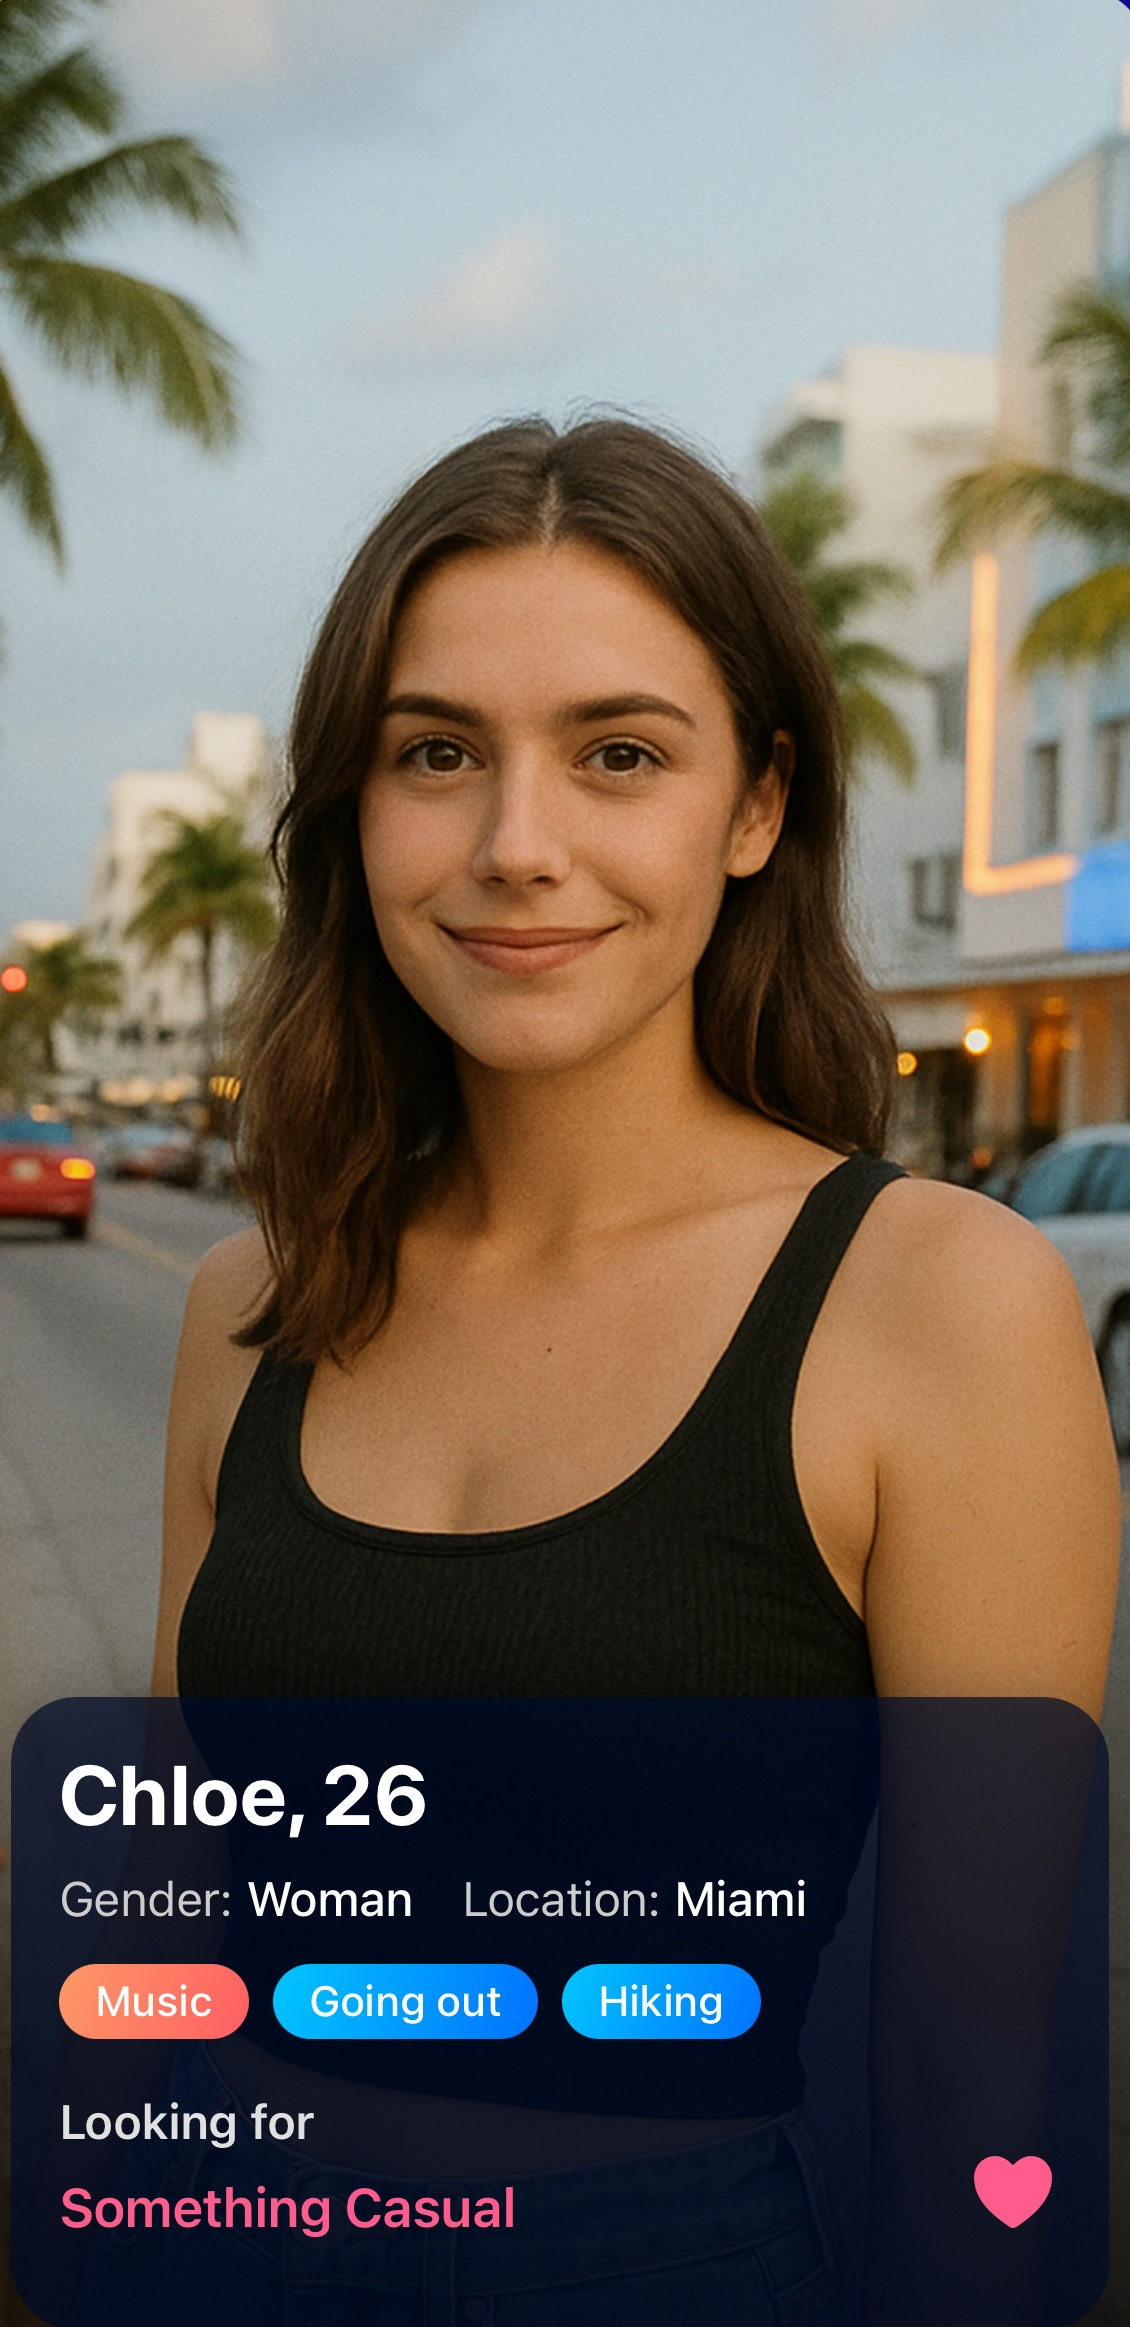
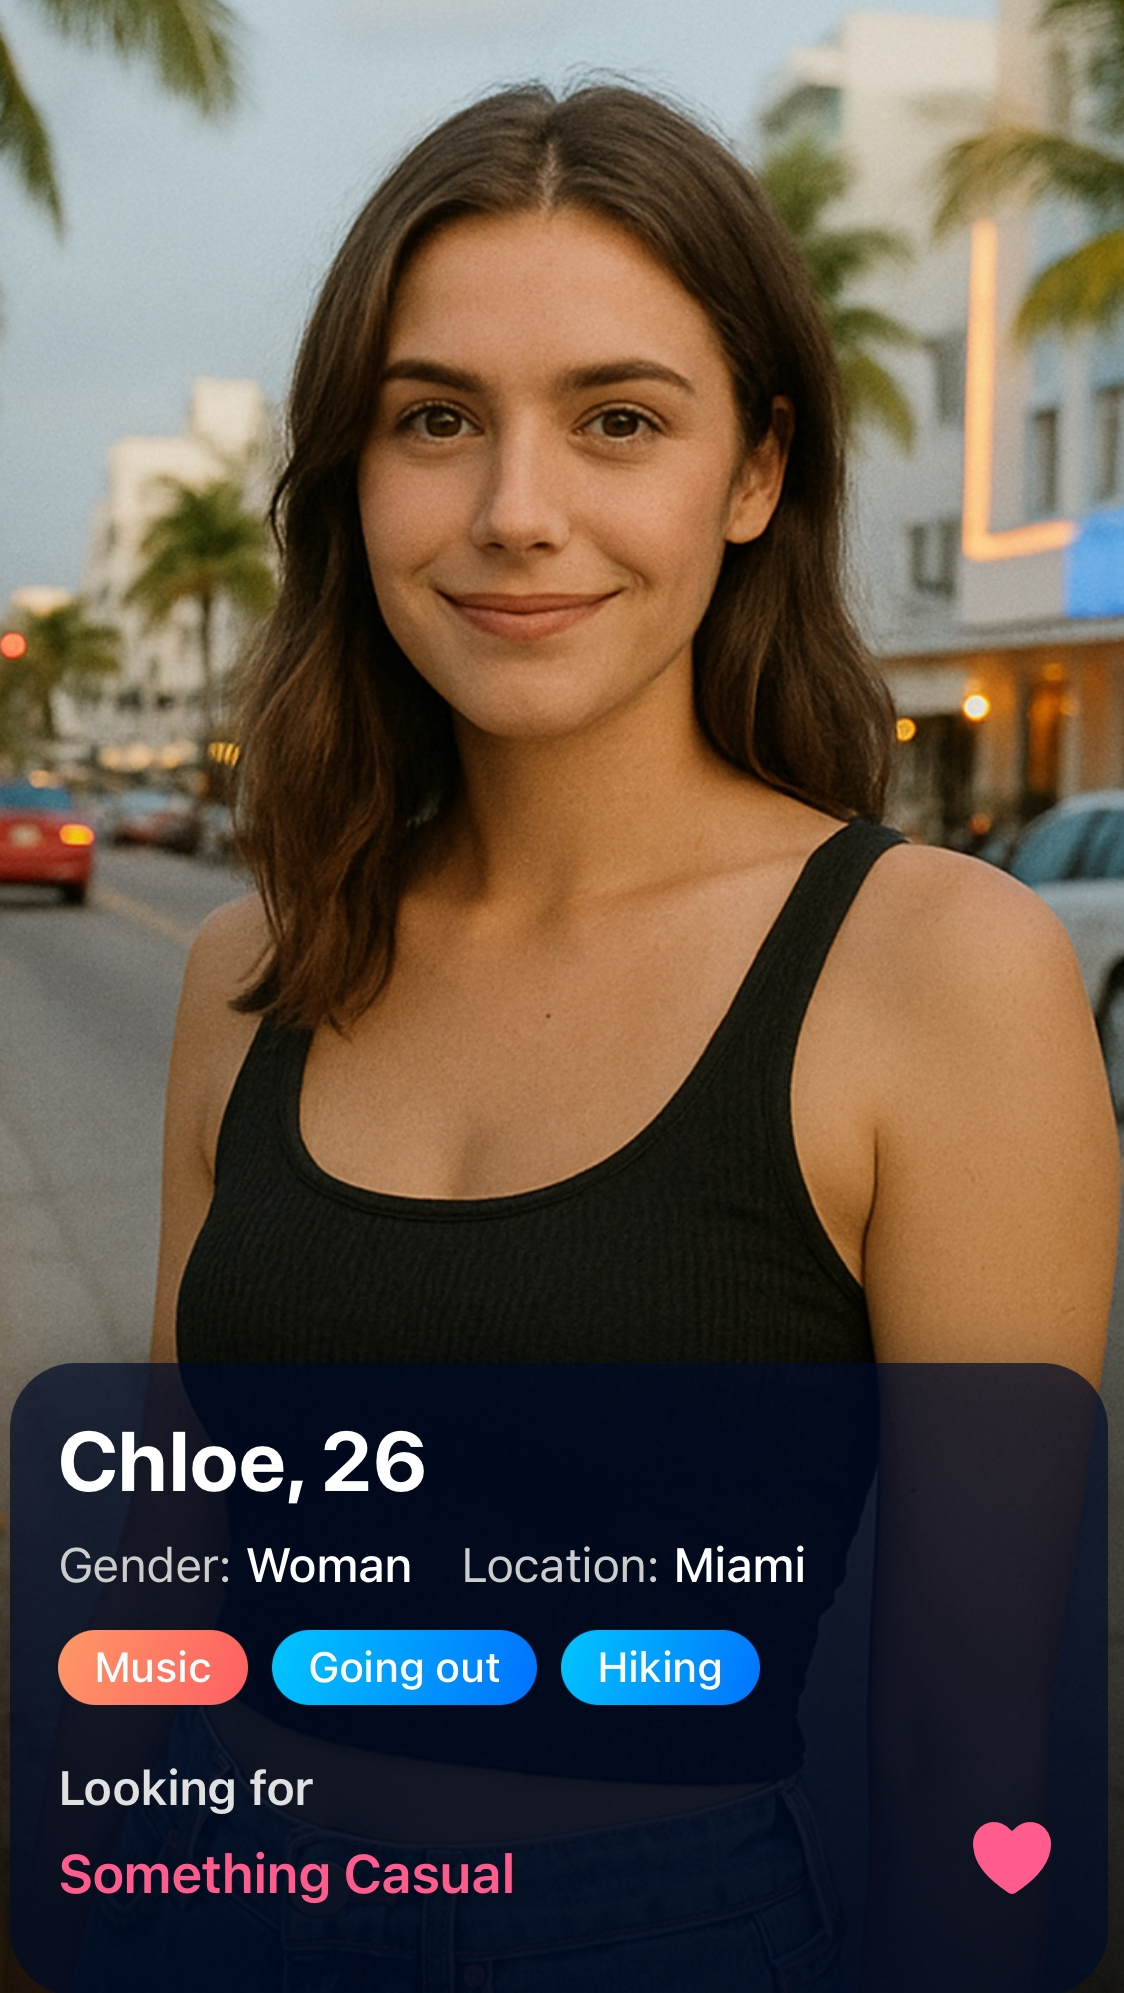
Added profile screen picture to WelcomeScreen key 3

diff --git a/SocialSwipe/src/pages/WelcomeScreen.tsx b/SocialSwipe/src/pages/WelcomeScreen.tsx
@@ -20,6 +20,7 @@ import logoImage from '../assets/logo.png'; // ** ADDED: Import for the logo ima
 import eventSceneImage from '../assets/eventScene.png'; // ** ADDED: Import for the event scene image **
 import locationRequestImage from '../assets/locationrequest.png'; // ** ADDED: Import for the location request image **
 import venueImage from '../assets/venue.png'; // ** ADDED: Import for the venue image **
+import profileImage from '../assets/profile.png'; // ** ADDED: Import for the profile image **
 
 // Get screen dimensions
 const { width: SCREEN_WIDTH, height: SCREEN_HEIGHT } = Dimensions.get('window');
@@ -74,17 +75,14 @@ const slides: WelcomeSlideType[] = [
     width: SCREEN_WIDTH * .811, // Width from the original placeholder
     height: SCREEN_HEIGHT * 0.63, // Height from the original placeholder
   },
-  {
+  { // ** MODIFIED: This slide now uses the profileImage **
     key: '3',
-    title: 'Instant Connections, Real Potential',
+    title: 'Real Connections, Real Potential',
     description:
       "See someone interesting? Double-tap to send a 'Like'. The best part? You'll always see who's liked you – no more guessing games or paywalls!",
-    imagePlaceholder: {
-      text: 'Match Notification / Like UI',
-      width: SCREEN_WIDTH * 0.8,
-      height: SCREEN_HEIGHT * 0.3,
-      backgroundColor: '#90EE90', // Light Green
-    },
+    image: profileImage, // Use the imported profile image
+    width: SCREEN_WIDTH * 0.71, // Width from the original placeholder
+    height: SCREEN_HEIGHT * 0.579, // Height from the original placeholder
   },
   { // This slide uses an actual image
     key: '4',
